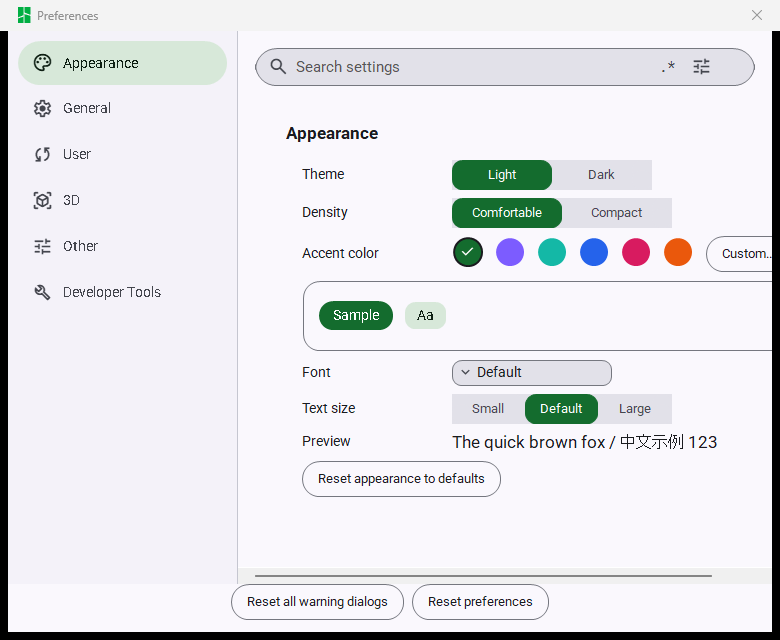
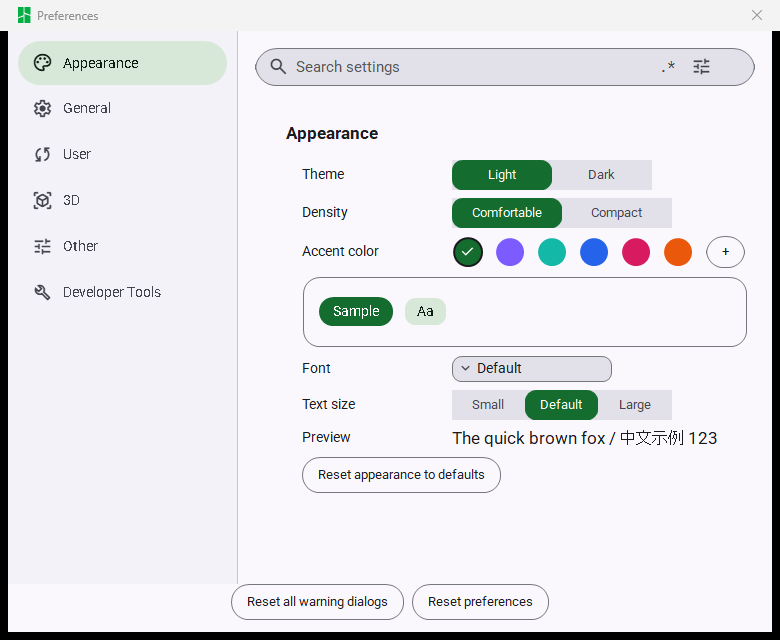
Fix CI Cantonese catalog gate; unclip Custom accent button
CI on the last two pushes failed at the Cantonese validation: catalog entries
were added to the .po/.mo without updating coverage.json. Now maintained via
the official compile_translation.py: 381 validated translations, per-category
counts reconciled, deterministic .mo, Test-LanguageModes.ps1 green locally.
Adds the "Custom color" msgid (en + yue_HK).

The Appearance Custom accent button no longer clips at the dialog edge: it is
now a 32px "+" tile matching the swatch geometry (tooltip "Custom color"),
headlessly re-verified with refreshed screenshots. Toast bottom base
finalized at 80px (14px breathing gap above the plate bar).

CI 早排炒車係因為廣東話翻譯清單 coverage.json 冇同步更新——而家用返官方
compile_translation.py 校驗晒(381 條翻譯,分類數目對齊,.mo 用官方工具
重新產生,本地測試全綠)。仲有:自訂主題色個掣改成 32px「+」圓仔,唔會
再喺視窗邊界切走;通知卡同底部工具列之間留返 14px 唞氣位。

diff --git a/src/slic3r/GUI/Preferences.cpp b/src/slic3r/GUI/Preferences.cpp
@@ -2190,10 +2190,14 @@ wxWindow *PreferencesDialog::create_appearance_tab()
     // is a valid seed (the six swatches are just shortcuts into the same
     // MD3::setAccentSeed pipeline), so a pick persists + applies exactly like a
     // preset; the preset rings deselect since none of them is the active seed.
-    auto *accent_custom = new Button(scrolled, _L("Custom") + dots);
+    // A 32px "+" tile matching the swatch geometry (a full-width labeled button
+    // overflows the row at the default dialog size and clipped at the edge).
+    auto *accent_custom = new Button(scrolled, "+");
     m_button_list[m_button_list.size()] = accent_custom;
     accent_custom->SetVariant(Button::Variant::Outlined);
     accent_custom->SetButtonSize(Button::Size::Small);
+    accent_custom->SetMinSize(wxSize(FromDIP(32), FromDIP(32)));
+    accent_custom->SetToolTip(_L("Custom color"));
     accent_custom->Bind(wxEVT_BUTTON, [this, swatches](wxCommandEvent &) {
         std::string seed = app_config->get("ui_accent_seed");
         if (seed.empty()) seed = "#146c2e";

diff --git a/HANDOFF.md b/HANDOFF.md
@@ -73,8 +73,15 @@ while the native bar overlaps the canvas bottom ~66px — new NOTIFICATION_DEFAU
 final value 80 for a 14px breathing gap; 80 is geometry-derived from the measured 64-flush capture,
 compile-gated but not yet re-captured); presets-up-to-date modal→toast PASS (no modal in a 39-frame
 watch); External-editor rows present in General (VS Code auto-detected) PASS; appearance
-Custom…/reset/MD3-preview present PASS; Other-tab toggle spacing PASS. Known cosmetic followups
-(chips filed): Preview legend column alignment; Custom accent button clips at the dialog right edge.
+Custom…/reset/MD3-preview present PASS; Other-tab toggle spacing PASS. Known cosmetic followups:
+Preview legend column alignment (chip filed — needs a sliced-state repro; investigated to the
+calculate_offsets/append_item pair in GCodeRenderer/BaseRenderer.cpp without a conclusive root
+cause). The Custom-accent-button edge clip was FIXED in-session (replaced with a 32px "+" tile
+matching the swatch geometry; headlessly re-verified, screenshots refreshed). The CI failure on
+9f450f86d/94f72d916 was root-caused to the Cantonese catalog gate: entries were added to the
+.po/.mo without updating bbl/i18n/yue_HK/coverage.json — fixed via the official
+compile_translation.py (381 validated translations, deterministic .mo, Test-LanguageModes.ps1
+passing locally). NOTIFICATION_DEFAULT_BOTTOM_MARGIN finalized at 80px (14px gap above the bar).
 The captured File menu now truthfully shows "Open in External Editor" (disabled on an unsaved
 project — its enable-condition at work).
 